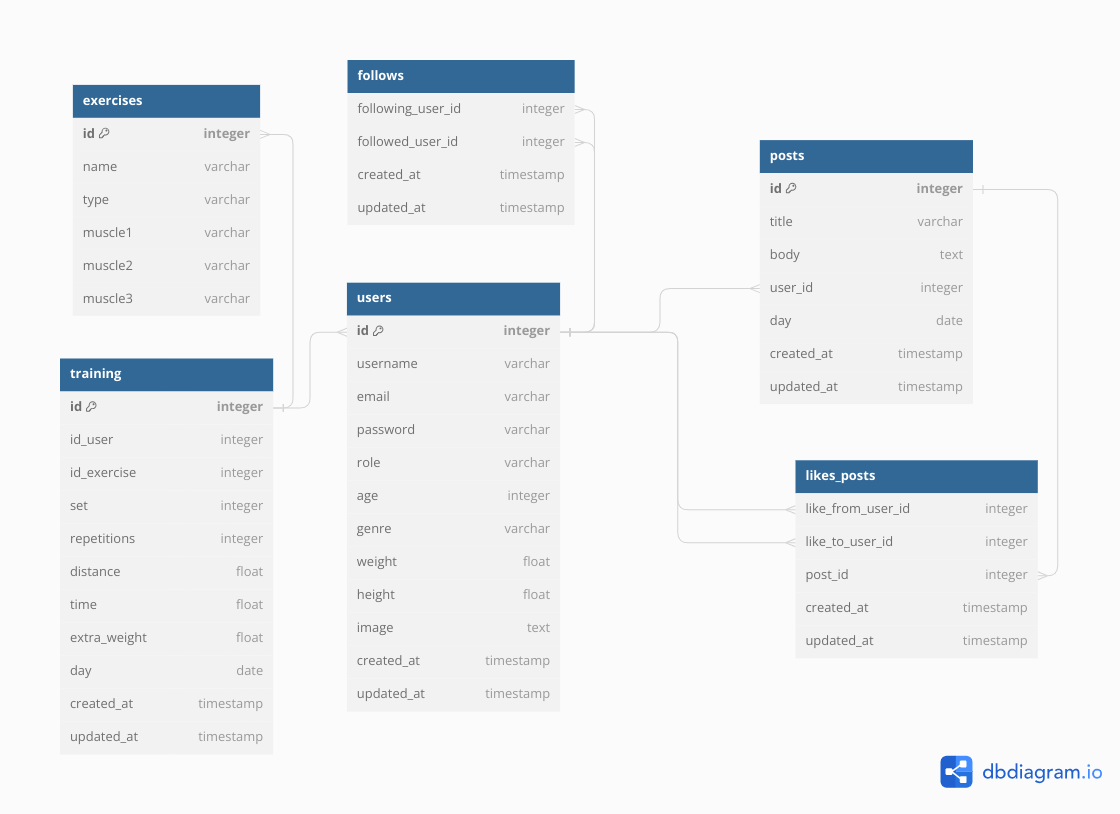
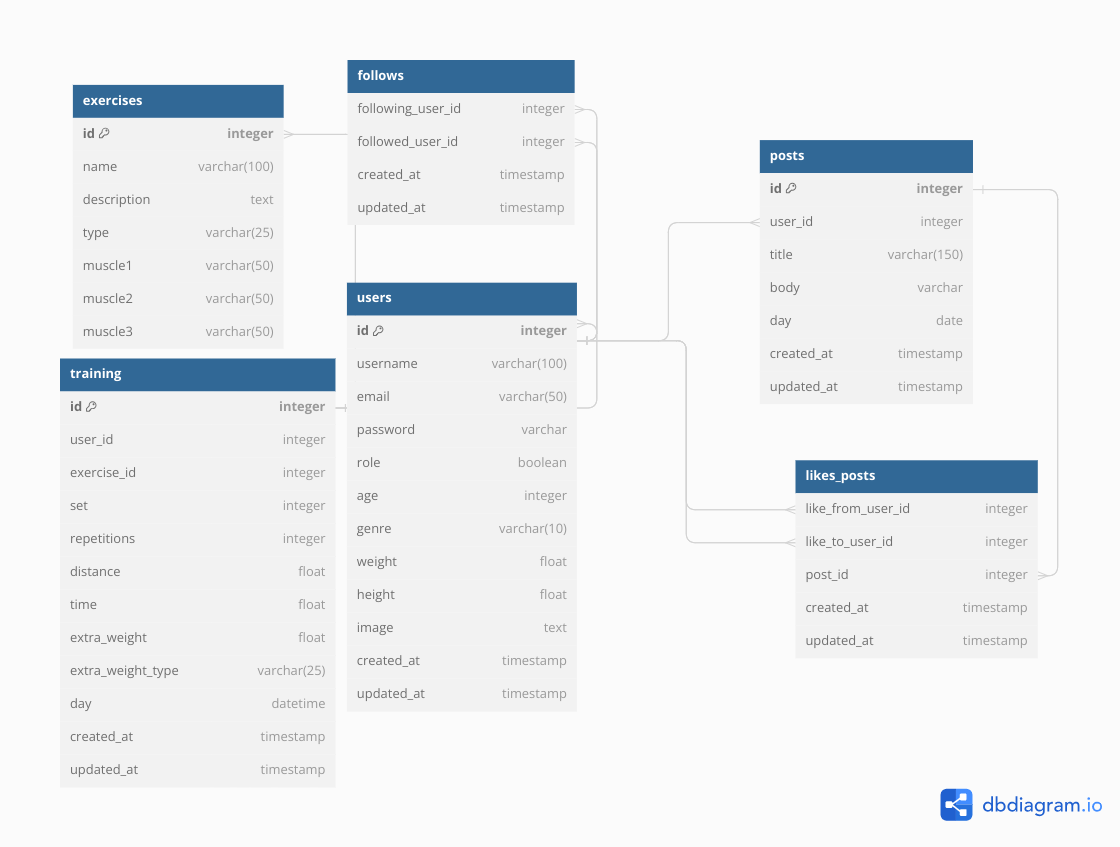
Se añade el modelo de sequelize de User, Training, Exercise, Follow, Post y Like_post.

diff --git a/server/src/models/User.js b/server/src/models/User.js
@@ -1,0 +1,106 @@
+import {DataTypes} from 'sequelize';
+import {sequelize} from '../database/db.js'
+import { Post } from './Post.js';
+import { Training } from './Training.js';
+import { Like_post } from './Like_post.js';
+import { Follow } from './Follow.js';
+
+export const User = sequelize.define('users', {
+    id: {
+        type: DataTypes.INTEGER,
+        primaryKey: true,
+        autoIncrement: true,
+    },
+    username: {
+        type: DataTypes.STRING(100),
+        allowNull: false
+    },
+    email: {
+        type: DataTypes.STRING(50),
+        allowNUll: false 
+    },
+    password: {
+        type: DataTypes.STRING,
+        allowNull: false
+    },
+    role: {
+        type: DataTypes.BOOLEAN,
+        defaultValue: false,
+    },
+    age: {
+        type: DataTypes.INTEGER,
+    },
+    genre: {
+        type: DataTypes.STRING(10),
+    },
+    height: {
+        type: DataTypes.FLOAT, 
+    },
+    weight: {
+        type: DataTypes.FLOAT,
+    }, 
+    image: {
+        type: DataTypes.TEXT,
+        defaultValue: null,
+    },
+});
+
+// Enlace entre id (User) y like_from_user_id (Post)
+User.hasMany(Post, {
+    foreignKey: 'user_id',
+    sourceKey: 'id'
+});
+Post.belongsTo(User, {
+    foreignKey: 'user_id',
+    targetId: 'id'
+});
+
+// Enlace entre id (User) y user_id (Training)
+User.hasMany(Training, {
+    foreignKey: 'user_id',
+    sourceKey: 'id'
+});
+Training.belongsTo(User, {
+    foreignKey: 'user_id',
+    targetId: 'id'
+});
+
+// Enlace entre id (User) y like_from_user_id (Like_post)
+User.hasMany(Like_post, {
+    foreignKey: 'like_from_user_id',
+    sourceKey: 'id'
+});
+Like_post.belongsTo(User, {
+    foreignKey: 'like_from_user_id',
+    targetId: 'id'
+});
+
+// Enlace entre id (User) y like_to_user_id (Like_post)
+User.hasMany(Like_post, {
+    foreignKey: 'like_to_user_id',
+    sourceKey: 'id'
+});
+Like_post.belongsTo(User, {
+    foreignKey: 'like_to_user_id',
+    targetId: 'id'
+});
+
+// Enlace entre id (User) y following_user_id (Follow)
+User.hasMany(Follow, {
+    foreignKey: 'following_user_id',
+    sourceKey: 'id'
+});
+Follow.belongsTo(User, {
+    foreignKey: 'following_user_id',
+    targetId: 'id'
+});
+
+// Enlace entre id (User) y followed_user_id (Follow)
+User.hasMany(Follow, {
+    foreignKey: 'followed_user_id',
+    sourceKey: 'id'
+});
+Follow.belongsTo(User, {
+    foreignKey: 'followed_user_id',
+    targetId: 'id'
+});

diff --git a/server/src/models/Training.js b/server/src/models/Training.js
@@ -1,0 +1,52 @@
+import {DataTypes} from 'sequelize';
+import {sequelize} from '../database/db.js'
+
+export const Training = sequelize.define('training', {
+    id: {
+        type: DataTypes.INTEGER,
+        primaryKey: true,
+        autoIncrement: true
+    },
+    user_id: {
+        type: DataTypes.INTEGER,
+        references: {
+            model: 'users',
+            key: 'id'
+        }
+    },
+    exercise_id: {
+        type: DataTypes.INTEGER,
+        references: {
+            model: 'exercises',
+            key: 'id'
+        }
+    },
+    set: {
+        type: DataTypes.INTEGER,
+        defaultValue: 0
+    },
+    repetitions: {
+        type: DataTypes.INTEGER,
+        defaultValue: 0
+    },
+    distance: {
+        type: DataTypes.FLOAT,
+        defaultValue: 0.0
+    },
+    time: {
+        type: DataTypes.FLOAT,
+        defaultValue: 0.0
+    },
+    extra_weight: {
+        type: DataTypes.FLOAT,
+        defaultValue: 0.0
+    },
+    extra_weight_type: {
+        type: DataTypes.STRING(25),
+        defaultValue: "kg" // o lbs
+    },
+    day: {
+        type: DataTypes.DATE,
+        defaultValue: DataTypes.NOW
+    }
+});

diff --git a/server/src/models/Exercise.js b/server/src/models/Exercise.js
@@ -1,0 +1,42 @@
+import {DataTypes} from 'sequelize';
+import {sequelize} from '../database/db.js'
+import { Training } from './Training.js';
+
+export const Exercise = sequelize.define('exercises', {
+    id: {
+        type: DataTypes.INTEGER,
+        primaryKey: true,
+        autoIncrement: true
+    },
+    name: {
+        type: DataTypes.STRING(100),
+    },
+    description: {
+        type: DataTypes.STRING,
+    },
+    type: {
+        type: DataTypes.STRING(25),
+    },
+    muscle1: {
+        type: DataTypes.STRING(50),
+        allowNUll: false 
+    },
+    muscle2: {
+        type: DataTypes.STRING(50),
+    },
+    muscle3: {
+        type: DataTypes.STRING(50),
+    }
+},  {
+    timestamps: false
+});
+
+// Enlace entre id (Exercise) y excercise_id (Training)
+Exercise.hasMany(Training, {
+    foreignKey: 'exercise_id',
+    sourceKey: 'id'
+});
+Training.belongsTo(Exercise, {
+    foreignKey: 'exercise_id',
+    targetId: 'id'
+});

diff --git a/server/src/models/Post.js b/server/src/models/Post.js
@@ -1,0 +1,38 @@
+import {DataTypes} from 'sequelize';
+import {sequelize} from '../database/db.js'
+import { Like_post } from './Like_post.js';
+
+export const Post = sequelize.define('posts', {
+    id: {
+        type: DataTypes.INTEGER,
+        primaryKey: true,
+        autoIncrement: true
+    },
+    user_id: {
+        type: DataTypes.INTEGER,
+        references: {
+            model: 'users',
+            key: 'id'
+        }
+    },
+    title: {
+        type: DataTypes.STRING(150),
+    },
+    body: {
+        type: DataTypes.STRING,
+    },
+    day: {
+        type: DataTypes.DATE,
+        defaultValue: DataTypes.NOW
+    }
+});
+
+// Enlace entre id (Post) y post_id (Like_post)
+Post.hasMany(Like_post, {
+    foreignKey: 'post_id',
+    sourceKey: 'id'
+});
+Like_post.belongsTo(Post, {
+    foreignKey: 'post_id',
+    targetId: 'id'
+});

diff --git a/server/src/models/Like_post.js b/server/src/models/Like_post.js
@@ -1,0 +1,26 @@
+import {DataTypes} from 'sequelize';
+import {sequelize} from '../database/db.js'
+
+export const Like_post = sequelize.define('like_posts', {
+    like_from_user_id: {
+        type: DataTypes.INTEGER,
+        references: {
+            model: 'users',
+            key: 'id'
+        }
+    },
+    like_to_user_id: {
+        type: DataTypes.INTEGER,
+        references: {
+            model: 'users',
+            key: 'id'
+        }
+    },
+    post_id: {
+        type: DataTypes.INTEGER,
+        references: {
+            model: 'posts',
+            key: 'id'
+        }
+    }
+});

diff --git a/server/index.js b/server/index.js
@@ -2,11 +2,18 @@ import 'dotenv/config';
 import { sequelize } from './src/database/db.js';
 import app from './src/app.js';
 
+import './src/models/User.js';
+import './src/models/Exercise.js';
+import './src/models/Follow.js';
+import './src/models/Like_post.js';
+import './src/models/Post.js';
+import './src/models/Training.js';
+
 const {PORT} = process.env;
 
 const main = async () => {
   try {
-    await sequelize.authenticate();
+    await sequelize.sync({force: true});
     console.log('Connection has been established succesfully.');
     // Se conecta al servidor
     app.listen(PORT, () => {

diff --git a/server/src/models/Follow.js b/server/src/models/Follow.js
@@ -1,0 +1,19 @@
+import {DataTypes} from 'sequelize';
+import {sequelize} from '../database/db.js'
+
+export const Follow = sequelize.define('follows', {
+    following_user_id: {
+        type: DataTypes.INTEGER,
+        references: {
+            model: 'users',
+            key: 'id'
+        }
+    },
+    followed_user_id: {
+        type: DataTypes.INTEGER,
+        references: {
+            model: 'users',
+            key: 'id'
+        }
+    }
+});

diff --git a/README.md b/README.md
@@ -13,3 +13,6 @@ npm install
 ```
 npm start
 ```
+
+## Estructura de la base de datos:
+![Modelo de datos](./server/src/database/tugymbro.png)
